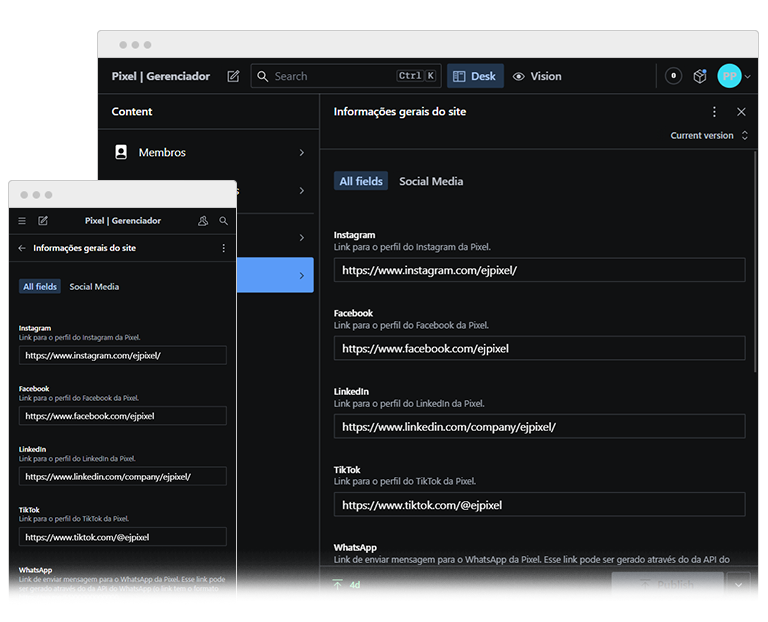
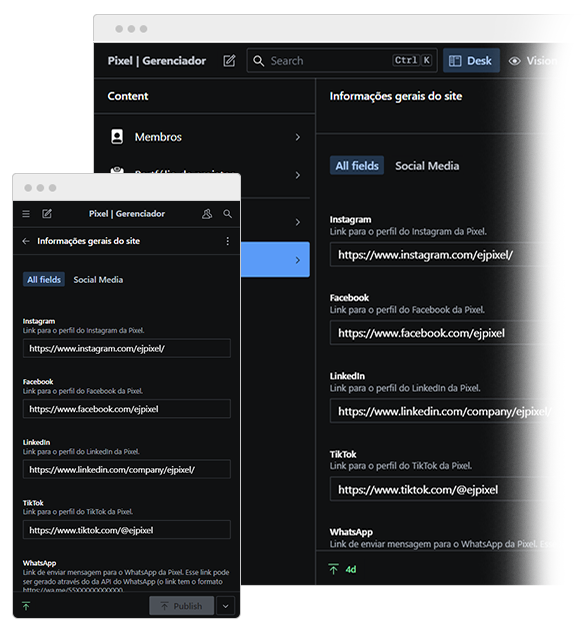
Changed card image

diff --git a/next-frontend/src/components/page-services/services-grid/services-grid.component.jsx b/next-frontend/src/components/page-services/services-grid/services-grid.component.jsx
@@ -54,7 +54,7 @@ export default function ServicesGrid() {
                     description={
                         'Você escolhe quais informações devem ser editáveis! Desenvolveremos uma interface simples e personalizada para a edição do conteúdo do seu site onde qualquer um da sua equipe será capaz de fazer alterações no conteúdo do site.'
                     }
-                    image={'/images/services/content-editing.png'}
+                    image={'/images/services/content-editing-fade.png'}
                     imageAlt={'Content Editing'}
                 />
 
